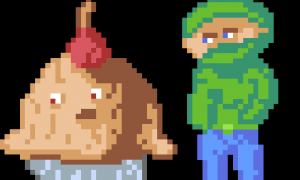
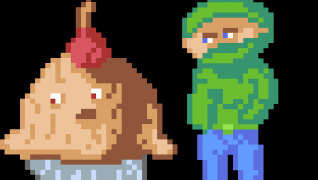
Add more thumbnails

diff --git a/projects.html b/projects.html
@@ -170,7 +170,7 @@
         <div class="col-12 col-md-6 col-lg-3">
             <div class="card">
                 <a href="/projects/2015/12/16/turtle-racer.html">
-                    <img class="card-img-top" src="/images/projects/2015-12-16-Turtle-Racer/thumbnail.png" alt="Turtle Racer Thumbnail">
+                    <img class="card-img-top" src="/images/projects/2015-12-16-Turtle-Racer/thumbnail.jpg" alt="Turtle Racer Thumbnail">
                     <div class="card-body">
                         <h5 class="card-title">Turtle Racer</h4>
                         <p class="card-text">C++</p>

diff --git a/projects/2015.html b/projects/2015.html
@@ -90,7 +90,7 @@
         <div class="col-12 col-md-6 col-lg-3">
             <div class="card">
                 <a href="/projects/2015/12/16/turtle-racer.html">
-                    <img class="card-img-top" src="/images/projects/2015-12-16-Turtle-Racer/thumbnail.png" alt="Turtle Racer Thumbnail">
+                    <img class="card-img-top" src="/images/projects/2015-12-16-Turtle-Racer/thumbnail.jpg" alt="Turtle Racer Thumbnail">
                     <div class="card-body">
                         <h5 class="card-title">Turtle Racer</h4>
                         <p class="card-text">C++</p>

diff --git a/projects/2015/12.html b/projects/2015/12.html
@@ -90,7 +90,7 @@
         <div class="col-12 col-md-6 col-lg-3">
             <div class="card">
                 <a href="/projects/2015/12/16/turtle-racer.html">
-                    <img class="card-img-top" src="/images/projects/2015-12-16-Turtle-Racer/thumbnail.png" alt="Turtle Racer Thumbnail">
+                    <img class="card-img-top" src="/images/projects/2015-12-16-Turtle-Racer/thumbnail.jpg" alt="Turtle Racer Thumbnail">
                     <div class="card-body">
                         <h5 class="card-title">Turtle Racer</h4>
                         <p class="card-text">C++</p>

diff --git a/projects/2015/12/16.html b/projects/2015/12/16.html
@@ -90,7 +90,7 @@
         <div class="col-12 col-md-6 col-lg-3">
             <div class="card">
                 <a href="/projects/2015/12/16/turtle-racer.html">
-                    <img class="card-img-top" src="/images/projects/2015-12-16-Turtle-Racer/thumbnail.png" alt="Turtle Racer Thumbnail">
+                    <img class="card-img-top" src="/images/projects/2015-12-16-Turtle-Racer/thumbnail.jpg" alt="Turtle Racer Thumbnail">
                     <div class="card-body">
                         <h5 class="card-title">Turtle Racer</h4>
                         <p class="card-text">C++</p>
